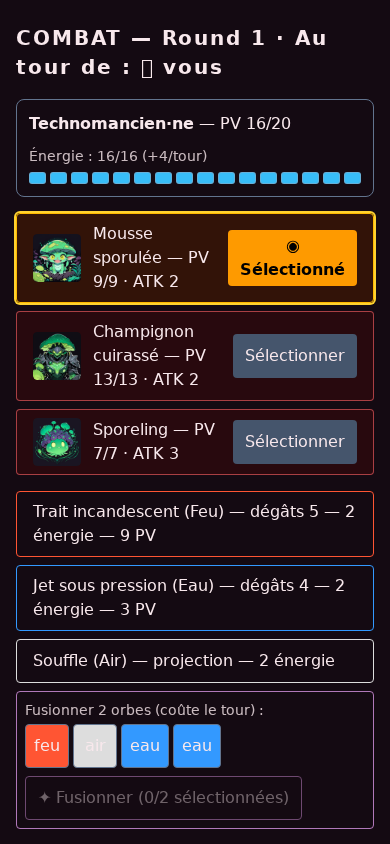
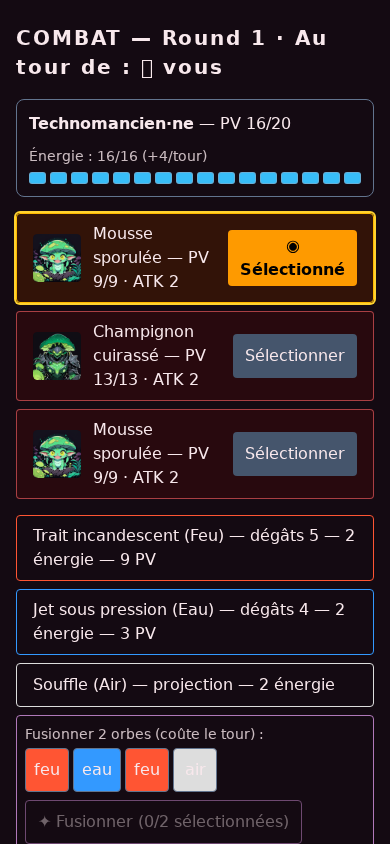
R11-07: playtest R11 + captures (EN ATTENTE DE VALIDATION HUMAINE)
- e2e/playtest-r11.spec.ts (preuves auto, 390 px) : parcours complet titre -> descente ->
  combat -> retour Forge avec collecte des erreurs console/pageerror -> 0 erreur
  (hors 404 ressources tolérées) + captures 22..25 ; compagnon vermine (Tisseuse, 4e
  famille) en combat avec menu de compétences FR (palier 2) + capture 26.
- docs/SCREENSHOTS-R11/ : 16 captures R11 (11..26) couvrant E1 (fusion), E2 (compagnons
  + refus explicite), E3 (HUD XP), E4 (dégâts prédits), R11-05 (Labo permanent),
  R11-07 (playtest).
- SPEC.md à jour E1-E5 (amendements §4.1, §5.2, §6.3, §7.2) ; VERIFICATION.md phase R11
  re-exécutée fraîchement ; PROGRESS.md final.
- **[playtest] jamais validé par l'agent** : validation humaine à faire (compagnon en
  combat quel que soit le monstre capturé, fusion module+module découvrable sans doc,
  montée de niveau continue sur le biome 2 — 390 px, 2560 px, headed via
  scripts/headed-final.mjs sur poste local).

Sorties (exécutées EN LOCAL dans le sandbox) :

$ pnpm install
Done (exit 0)

$ pnpm vitest run
 Test Files  90 passed (90)
      Tests  304 passed (304)   (exit 0)

$ PORT=4173 pnpm test:e2e   (Chromium headless, 390 px, recette HANDOFF-R11, jamais le port 3030)
  25 passed (7.9m)   (exit 0)

$ pnpm build
 ✓ Compiled successfully in 2.1s
 ✓ Generating static pages (5/5)
 ✓ Exporting (2/2)   (exit 0)

diff --git a/e2e/playtest-r11.spec.ts b/e2e/playtest-r11.spec.ts
@@ -1,0 +1,127 @@
+import { test, expect, type Page } from '@playwright/test';
+
+// R11-07 [playtest] — preuves auto (la validation HUMAINE reste à faire, jamais faite par l'agent) :
+// 1. parcours complet 390 px (titre -> descente -> combat -> retour Forge) SANS erreur console
+//    (les 404 de ressources absentes sont tolérés et listés) + captures de preuve ;
+// 2. compagnon d'une 4e famille (vermine) en combat via save injectée + capture.
+// Captures : docs/SCREENSHOTS-R11/22..26-*.png.
+
+const SHOTS = 'docs/SCREENSHOTS-R11';
+test.setTimeout(420000);
+
+async function lirePos(page: Page): Promise<string | null> {
+  try {
+    const t = await page.getByText(/Position/).first().innerText({ timeout: 1500 });
+    const m = t.match(/\(\s*(\d+)\s*,\s*(\d+)\s*\)/);
+    return m ? `${m[1]},${m[2]}` : null;
+  } catch {
+    return null;
+  }
+}
+
+async function bouger(page: Page, dir: string): Promise<string | null> {
+  const avant = await lirePos(page);
+  try {
+    await page.getByRole('button', { name: dir }).click({ timeout: 1500 });
+  } catch {
+    return null;
+  }
+  await page.waitForTimeout(110);
+  const apres = await lirePos(page);
+  return apres === avant ? null : apres;
+}
+
+async function marcherJusquAuCombat(page: Page): Promise<boolean> {
+  let horiz = 'Droite';
+  for (let i = 0; i < 500; i++) {
+    if (await page.getByRole('heading', { name: /COMBAT/ }).isVisible().catch(() => false)) return true;
+    const horizBouge = await bouger(page, horiz);
+    if (horizBouge === null) {
+      if ((await bouger(page, 'Bas')) === null) await bouger(page, 'Haut');
+      horiz = horiz === 'Droite' ? 'Gauche' : 'Droite';
+    }
+  }
+  return false;
+}
+
+async function fuirCombat(page: Page): Promise<void> {
+  for (let i = 0; i < 20; i++) {
+    const fin = page.getByRole('heading', { name: /VICTOIRE|FUITE|RUN TERMINÉ/ });
+    if (await fin.isVisible().catch(() => false)) {
+      const btn = page.getByRole('button', { name: 'Continuer' });
+      if (await btn.isVisible().catch(() => false)) await btn.click();
+      return;
+    }
+    if (!(await page.getByRole('heading', { name: /COMBAT/ }).isVisible().catch(() => false))) return;
+    await page.getByRole('button', { name: /Fuir/ }).first().click().catch(() => {});
+    await page.waitForTimeout(200);
+  }
+}
+
+test('parcours complet R11 sans erreur console + captures de preuve', async ({ page }) => {
+  const erreurs: string[] = [];
+  page.on('pageerror', (e) => erreurs.push('pageerror: ' + e.message));
+  page.on('console', (m) => {
+    // toléré : 404 de ressources (portraits PNG absents -> fallback code-gen prévu)
+    if (m.type() === 'error' && !/Failed to load resource|404/.test(m.text())) erreurs.push('console.error: ' + m.text());
+  });
+
+  await page.goto('/riftforge/');
+  await expect(page.getByRole('heading', { name: 'RIFTFORGE' })).toBeVisible();
+  await page.screenshot({ path: `${SHOTS}/22-playtest-titre.png` });
+
+  await page.getByRole('button', { name: 'Nouvelle descente' }).click();
+  await expect(page.locator('canvas').first()).toBeVisible({ timeout: 15000 });
+  await expect(page.getByText(/Niv 1\/12/)).toBeVisible(); // R11-03 : HUD niveau/XP
+  await page.screenshot({ path: `${SHOTS}/23-playtest-carte.png` });
+
+  expect(await marcherJusquAuCombat(page)).toBe(true);
+  await expect(page.getByRole('heading', { name: /COMBAT/ })).toBeVisible();
+  await page.screenshot({ path: `${SHOTS}/24-playtest-combat.png` });
+
+  await fuirCombat(page);
+  if (await page.getByRole('button', { name: 'Entrer à la Forge' }).isVisible().catch(() => false)) {
+    await page.getByRole('button', { name: 'Entrer à la Forge' }).click();
+  } else {
+    await page.getByRole('button', { name: 'Quitter la Faille' }).click();
+  }
+  await expect(page.getByRole('heading', { name: 'LA FORGE', exact: true })).toBeVisible();
+  await page.screenshot({ path: `${SHOTS}/25-playtest-forge.png`, fullPage: true });
+
+  expect(erreurs).toEqual([]);
+});
+
+test('compagnon vermine (4e famille) en combat, 390 px', async ({ page }) => {
+  await page.goto('/riftforge/');
+  await expect(page.getByRole('heading', { name: 'RIFTFORGE' })).toBeVisible();
+  await page.getByRole('button', { name: 'Nouvelle descente' }).click();
+  await expect(page.locator('canvas').first()).toBeVisible({ timeout: 15000 });
+
+  // Save patchée : Tisseuse de fil (vermine, palier 2) en équipe + compétences débloquées.
+  await page.evaluate(() => {
+    const ls = window.localStorage;
+    const raw = ls.getItem('riftforge-save');
+    if (!raw) throw new Error('save absente');
+    const file = JSON.parse(raw);
+    file.state.forge.roster = ['tisseuse'];
+    file.state.forge.team = ['tisseuse'];
+    file.state.forge.bondTier = { tisseuse: 2 };
+    file.state.run.companionSkills = { 'fil-coupant': 1, toile: 1 };
+    const origSet = Storage.prototype.setItem;
+    origSet.call(ls, 'riftforge-save', JSON.stringify(file));
+    Storage.prototype.setItem = function () {};
+  });
+  await page.reload();
+  await expect(page.getByRole('heading', { name: 'RIFTFORGE' })).toBeVisible();
+  await page.getByRole('button', { name: 'Continuer' }).click();
+  await expect(page.locator('canvas').first()).toBeVisible({ timeout: 15000 });
+
+  expect(await marcherJusquAuCombat(page)).toBe(true);
+  await expect(page.getByRole('heading', { name: /COMBAT/ })).toBeVisible();
+  await expect(page.getByText(/Compagnon : Tisseuse de fil/)).toBeVisible();
+  await page.getByRole('button', { name: /^Compagnons/ }).click();
+  await expect(page.getByRole('button', { name: /Fil coupant niv 1/ })).toBeVisible();
+  await expect(page.getByRole('button', { name: /Toile niv 1/ })).toBeVisible();
+  await expect(page.getByRole('button', { name: /Cocon/ })).toHaveCount(0); // palier 4 verrouillé
+  await page.screenshot({ path: `${SHOTS}/26-combat-compagnon-vermine.png` });
+});

diff --git a/docs/PROGRESS.md b/docs/PROGRESS.md
@@ -192,9 +192,9 @@ Aucun — pas de coupe-circuit (3 échecs) déclenché. `docs/BLOCKED.md` n'exis
 
 ## Vague 2 (R11) — session en cours
 
-- **Dernier commit** : commit R11-06 sur `main` (+ R11-05 = `c4985ae`).
-- **Preuves R11-06** (exécutées EN LOCAL, sorties dans le corps du commit) :
-  `pnpm install && pnpm vitest run && pnpm test:e2e && pnpm build` -> exit 0 — **90 fichiers / 304 tests**, **23 tests e2e Playwright (390 px headless local)**.
+- **Dernier commit** : commit R11-07 sur `main` (R11-06 = `f05497a`, R11-05 = `c4985ae`). Vague R11 terminée : R11-01..R11-07 commités.
+- **Preuves R11-07** (exécutées EN LOCAL, sorties dans le corps du commit) :
+  `pnpm install && pnpm vitest run && pnpm test:e2e && pnpm build` -> exit 0 — **90 fichiers / 304 tests**, **25 tests e2e Playwright (390 px headless local)**.
 
 | Ticket | État | Notes |
 |---|---|---|
@@ -204,7 +204,7 @@ Aucun — pas de coupe-circuit (3 échecs) déclenché. `docs/BLOCKED.md` n'exis
 | R11-04 | done | commit « R11-04: scaling ATK visible (E4) » — ratios `MODULE_ATK_SCALING_BY_TIER {1:0.6, 2:1.0, 3:1.5}`, `predictedModuleDamage()` (core, même formule que CAST_MODULE) affiché sur les boutons solo/créés en combat (« — N PV » avec ATQ courante + faiblesse de la cible), tests `r11-04-atk-visible.test.ts` (prédit == infligé sur toute la table, corrélation ATQ stricte), e2e `module-damage-r11.spec.ts` (montant bouton == log, capture `19-combat-degats-predits.png`). `PLAYER_ATTACK` 4→2 en data pour tenir la bande : **0,100 %** (r9-01/r10-06). SPEC §5.2 (E4). |
 | R11-05 | done | commit « R11-05: Labo permanent + save v7 » — `LAB_UPGRADES` (5 améliorations permanentes : -1 énergie / +10 % dégâts par palier, coûts mercurium/optifibre), 3 fusions exclusives (`fusion-nova/abime/singularite`, recettes inédites tier 3, refusées en run/combat tant que non débloquées à la Forge), écran Labo scindé **PERMANENT** vs **CETTE RUN**, save **v7** + migration v6→v7 testée, appliquées en combat (`labModifiersOf` -> énergie/dégâts, prédiction incluse). Tests `r11-05-lab.test.ts` (persistance, doublon refusé, refus exclusif, combat -1 é/+10 %, migration), e2e `lab-permanent-r11.spec.ts` (achat -> retour Forge -> coût réduit visible en combat, captures `20..21-*.png`). Bot : exclusives ignorées par défaut. Bande **0,200 %**, morts biome1 43,0 % (START_PLAYER_HP 21). SPEC §6.3. |
 | R11-06 | done | commit « R11-06: re-simulation V1.2 (bot E1 + compagnon + niveaux) » — bot partagé `tests/helpers/simbot.ts` : fusion E1, compagnon Mousse joué à son tour (soin/dégâts), niveaux E3, exclusives Labo ignorées par défaut ; r9-01/r10-06 branchés sur ce bot. Nouveau `tests/r11-06-resim.test.ts` (N=1000 via **SIM_RUNS_FINAL uniquement**, B37) : `[R11-06] runs=1000 victoires=2 taux=0.200% morts=998 par biome: biome1=284 biome2=408 biome3=288 biome4=18 niveau moyen/max par biome: 2.0/2.3/1.4/0.1`. Rééquilibrage **data uniquement** : XP_PER_KILL_BY_BIOME [1,2,3,4], XP_BOSS_BONUS [3,6,10,18], HP_PER_LEVEL 5, START_PLAYER_HP 20, soin-simple 1 PV/niv, ATQ gremlins/élémentaires/vermine +1. Bande **0,200 %** tenue (r9-01/r10-06/r11-06). |
-| R11-07 | à faire | [playtest] — jamais validé par l'agent, voir docs/BRIEF-R11.md §3 |
+| R11-07 | **EN ATTENTE DE VALIDATION HUMAINE** [playtest] | commit « R11-07: playtest R11 + captures » — preuves auto exécutées en local : parcours complet 390 px **0 erreur console** (`e2e/playtest-r11.spec.ts`), captures `docs/SCREENSHOTS-R11/22..26-*.png` (titre/carte/combat/Forge + compagnon vermine en combat), SPEC à jour E1-E5, VERIFICATION.md phase R11 re-exécutée. **Validation humaine à faire** (jamais faite par l'agent) : compagnon en combat quel que soit le monstre capturé, fusion module+module se découvre sans doc, montée de niveau continue sur le biome 2 — 390 px + 2560 px + headed (`scripts/headed-final.mjs`). |
 
 - **B39** : bot de bande brûlait ses orbes en craft direct (taux doublé 0,2 % → 0,4 %) ; fix = bot E1-conforme (`tests/helpers/modules.ts`), aucune valeur d'équilibrage changée, bande 0,200 % restaurée.
 - **E2E sandbox** : recette Chromium vérifiée de bout en bout — `pnpm exec playwright install chromium` + `python3 scripts/setup-pw-libs.py` + `LD_LIBRARY_PATH`/`FONTCONFIG_FILE` + `PORT=4173 pnpm test:e2e` (jamais 3030) — voir docs/HANDOFF-R11.md.

diff --git a/docs/VERIFICATION.md b/docs/VERIFICATION.md
@@ -122,3 +122,38 @@ Date : session locale R10, dernier commit `121e8b7`. Commandes rejouées pour ce
 ## Playtest humain en attente (R10-07)
 
 Un combat se comprend sans doc (énergie, coûts, affinités) : **EN ATTENTE DE VALIDATION HUMAINE** — jamais validé par l'agent.
+
+---
+
+# Phase R11 (refonte V1.2, vague 2) — re-exécutée fraîchement
+
+Date : session R11, dernier commit `f05497a` + commit R11-07. Toutes les commandes
+rejouées EN LOCAL dans le sandbox (recette Chromium : `playwright install chromium` +
+`scripts/setup-pw-libs.py` + `LD_LIBRARY_PATH`/`FONTCONFIG_FILE` + `PORT=4173`,
+jamais le port 3030 — voir docs/HANDOFF-R11.md).
+
+## Commandes de preuve (exit 0 partout)
+- `pnpm install` -> Done (exit 0)
+- `pnpm vitest run` -> **Test Files 90 passed (90), Tests 304 passed (304)** (exit 0)
+- `PORT=4173 pnpm test:e2e` -> **25 passed** (Chromium headless 390 px, exécuté réellement en local) (exit 0)
+- `pnpm build` -> ✓ Compiled successfully, static pages (5/5), export (2/2) (exit 0)
+
+## Simulations (N=1000, SIM_RUNS_FINAL uniquement — B37)
+- `[R11-06] runs=1000 victoires=2 taux=0.200% tours moyens=634.0 morts=998 par biome: biome1=284 biome2=408 biome3=288 biome4=18 niveau moyen (max) par biome: 2.0/2.3/1.4/0.1` — bande §SPEC-2 0,1-0,2 % tenue, morts biome1 28,5 % ≤ 50 %, 4 biomes visités, ~niveaux par biome cohérents (E3).
+- r9-01 et r10-06 (bot partagé E1+compagnon+niveaux) : 0,200 % également.
+
+## Nouveautés R11 prouvées en e2e réel (390 px, captures docs/SCREENSHOTS-R11/)
+- E1 fusion module+module : `fusion-modules.spec.ts` + captures 11..14.
+- E2 compagnons 16 arbres + refus explicite : `companions-r11.spec.ts` + captures 15..17.
+- E3 HUD niveau/XP 12 : `levels-r11.spec.ts` + capture 18.
+- E4 dégâts prédits sur boutons : `module-damage-r11.spec.ts` + capture 19.
+- R11-05 Labo permanent : `lab-permanent-r11.spec.ts` + captures 20..21.
+- R11-07 playtest auto : `playtest-r11.spec.ts` — parcours complet SANS erreur console
+  (0 pageerror, 0 console.error hors 404 ressources tolérées) + captures 22..25, et
+  compagnon vermine (4e famille) en combat + capture 26.
+
+## Playtest humain en attente (R11-07)
+- **EN ATTENTE DE VALIDATION HUMAINE** (jamais validé par l'agent) : le compagnon
+  apparaît en combat quel que soit le monstre capturé, la fusion module+module se
+  découvre sans doc, la montée de niveau continue sur le biome 2 — à jouer réellement
+  (390 px et 2560 px, `scripts/headed-final.mjs` en headed sur poste local).
